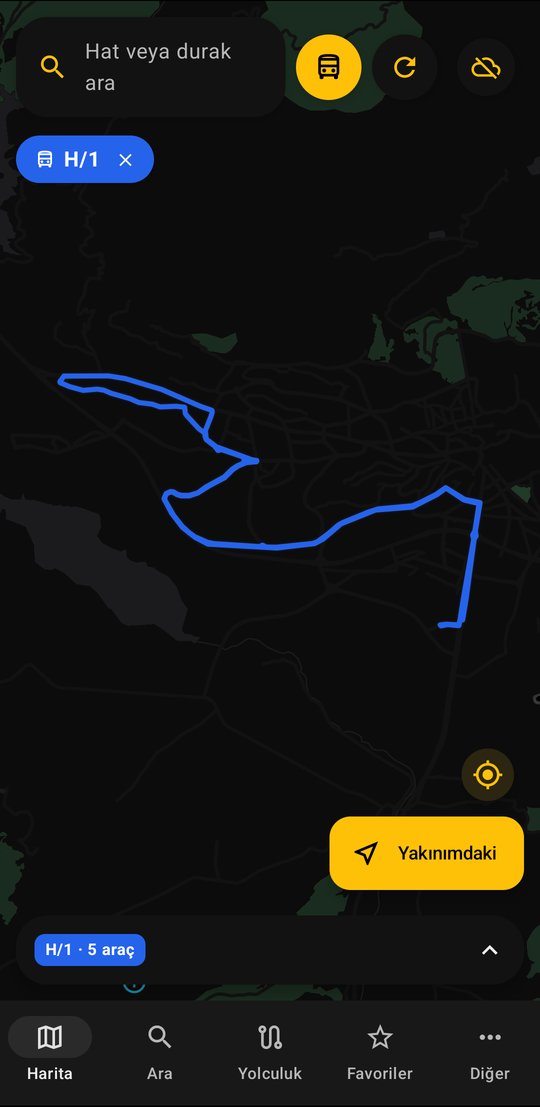
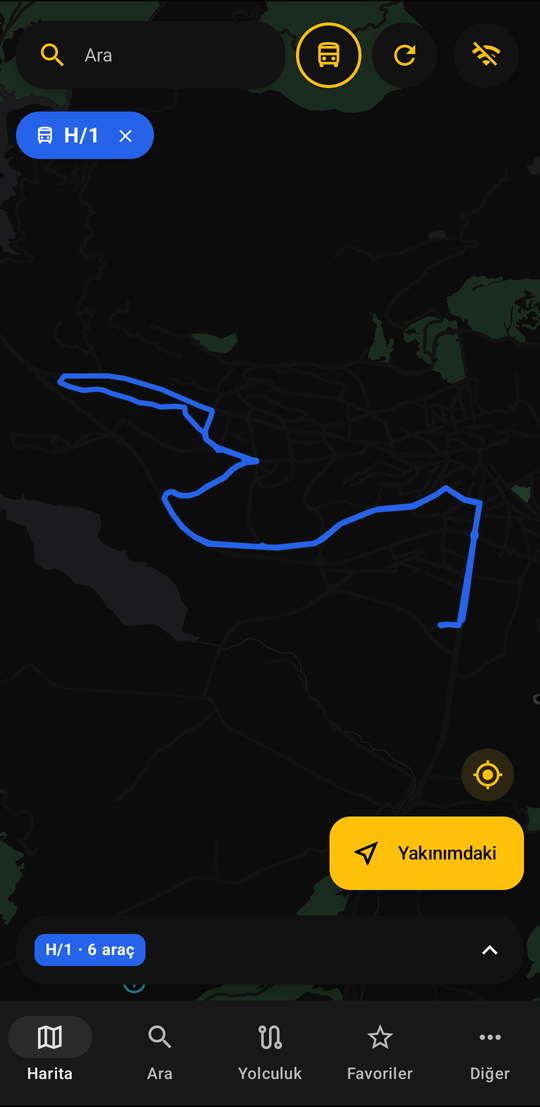
Tema düzeltmeleri: açık/koyu rolleri tamamlandı, pencere ve durum çubuğu uygulama temasını izler; çevrimdışı düğmesi diğer yuvarlak düğmelerle simetrik, Wi-Fi kapalı simgesi; yeni ekran görüntüleri

Changed region(s): [[0.0296, 0.0307, 0.4148, 0.1843], [0.5037, 0.0, 0.7704, 0.0921], [0.8593, 0.0307, 0.9185, 0.0921]]

diff --git a/app/src/main/java/com/uzaylikafasi/marasulasim/ui/TransportApp.kt b/app/src/main/java/com/uzaylikafasi/marasulasim/ui/TransportApp.kt
@@ -56,7 +56,11 @@ private val lightColors = lightColorScheme(primary = teal, onPrimary = Color.Whi
     tertiary = Color(0xFFEA580C), background = Color(0xFFF8FAFC), onBackground = Color(0xFF0F172A),
     surface = Color.White, onSurface = Color(0xFF0F172A), surfaceVariant = Color(0xFFF1F5F9), onSurfaceVariant = Color(0xFF475569),
     surfaceContainer = Color.White, surfaceContainerLow = Color(0xFFF8FAFC), surfaceContainerHigh = Color.White, surfaceContainerHighest = Color(0xFFF1F5F9),
-    outline = Color(0xFFCBD5E1), outlineVariant = Color(0xFFE2E8F0))
+    outline = Color(0xFFCBD5E1), outlineVariant = Color(0xFFE2E8F0),
+    onSecondary = Color.White, onTertiary = Color.White, tertiaryContainer = Color(0xFFFFEDD5), onTertiaryContainer = Color(0xFF7C2D12),
+    error = Color(0xFFDC2626), onError = Color.White, errorContainer = Color(0xFFFEE2E2), onErrorContainer = Color(0xFF7F1D1D),
+    inverseSurface = Color(0xFF1E293B), inverseOnSurface = Color(0xFFF1F5F9), inversePrimary = Color(0xFF93C5FD),
+    surfaceDim = Color(0xFFE2E8F0), surfaceBright = Color.White, surfaceContainerLowest = Color.White, surfaceTint = Color(0xFF2563EB))
 /** Koyu tema: siyah zemin, sarı (amber) vurgu, gri yüzeyler; metin/yüzey kontrastı en az 4,5:1. */
 private val darkColors = darkColorScheme(primary = Color(0xFFFFC107), onPrimary = Color.Black, primaryContainer = Color(0xFF3D3000), onPrimaryContainer = Color(0xFFFFE082),
     secondary = Color(0xFFB8B8B8), onSecondary = Color.Black, secondaryContainer = Color(0xFF2A2A2A), onSecondaryContainer = Color(0xFFE0E0E0),
@@ -64,7 +68,10 @@ private val darkColors = darkColorScheme(primary = Color(0xFFFFC107), onPrimary 
     background = Color.Black, onBackground = Color(0xFFEDEDED),
     surface = Color(0xFF121212), onSurface = Color(0xFFEDEDED), surfaceVariant = Color(0xFF222222), onSurfaceVariant = Color(0xFFB8B8B8),
     surfaceContainer = Color(0xFF181818), surfaceContainerLow = Color(0xFF0E0E0E), surfaceContainerHigh = Color(0xFF202020), surfaceContainerHighest = Color(0xFF2A2A2A),
-    outline = Color(0xFF6B6B6B), outlineVariant = Color(0xFF3A3A3A), error = Color(0xFFFF6B6B), onError = Color.Black)
+    outline = Color(0xFF6B6B6B), outlineVariant = Color(0xFF3A3A3A), error = Color(0xFFFF6B6B), onError = Color.Black,
+    errorContainer = Color(0xFF3A1212), onErrorContainer = Color(0xFFFFB4AB),
+    inverseSurface = Color(0xFFEDEDED), inverseOnSurface = Color(0xFF121212), inversePrimary = Color(0xFF6B5300),
+    surfaceDim = Color(0xFF0A0A0A), surfaceBright = Color(0xFF2E2E2E), surfaceContainerLowest = Color(0xFF080808), surfaceTint = Color(0xFFFFC107))
 /** Geçerli temanın koyu olup olmadığı (arka plan parlaklığından); sabit renkli birkaç öğe için. */
 private object LocalDark { val current: Boolean @Composable get() = MaterialTheme.colorScheme.background.luminance() < 0.5f }
 /** Durum çubuğu ve gezinme çubuğu simgeleri temaya göre; çubuklar saydam (kenardan kenara). */
@@ -77,6 +84,9 @@ private fun SystemBarsEffect(dark: Boolean) {
         controller.isAppearanceLightStatusBars = !dark
         controller.isAppearanceLightNavigationBars = !dark
         window.navigationBarColor = if (dark) android.graphics.Color.BLACK else android.graphics.Color.WHITE
+        window.statusBarColor = android.graphics.Color.TRANSPARENT
+        // Pencere zemini sistem temasına değil uygulama temasına uysun (telefon koyu, uygulama açıkken siyah şerit kalmasın ve tersi)
+        window.setBackgroundDrawable(android.graphics.drawable.ColorDrawable(if (dark) android.graphics.Color.BLACK else android.graphics.Color.parseColor("#F8FAFC")))
     }
 }
 private fun hex(value: String) = Color(android.graphics.Color.parseColor(value))
@@ -139,7 +149,8 @@ fun TransportApp(vm: TransportViewModel, onNearby: () -> Unit, onLocate: ((Doubl
         LaunchedEffect(openedLine) { openedLine?.let { if (snapshots[it.key]?.stops == null) vm.lineStops(it) } }
         val names = listOf("Harita", "Ara", "Yolculuk", "Favoriler", "Diğer")
         val icons = listOf(Icons.Outlined.Map, Icons.Outlined.Search, Icons.Outlined.Route, Icons.Outlined.StarOutline, Icons.Outlined.MoreHoriz)
-        Scaffold(snackbarHost = { SnackbarHost(snackbar) }, topBar = {
+        Scaffold(snackbarHost = { SnackbarHost(snackbar) { data -> Snackbar(data, containerColor = MaterialTheme.colorScheme.surfaceContainerHighest,
+            contentColor = MaterialTheme.colorScheme.onSurface, actionColor = MaterialTheme.colorScheme.primary) } }, topBar = {
             if (tab != 0) TopAppBar(title = { Column {
                 Text(if (tab == 0) "Maraş Ulaşım" else names[tab], fontWeight = FontWeight.SemiBold)
                 if (tab == 0) Text("Hatların, tek haritada", style = MaterialTheme.typography.labelMedium, color = MaterialTheme.colorScheme.secondary)
@@ -403,7 +414,8 @@ private fun MapScreen(settings: Settings, allSnapshots: List<LineSnapshot>, focu
                 Surface(onClick = onSearch, modifier = Modifier.weight(1f), shape = mapCardShape, color = MaterialTheme.colorScheme.surface, shadowElevation = 6.dp) {
                     Row(Modifier.padding(horizontal = 16.dp, vertical = 14.dp), verticalAlignment = Alignment.CenterVertically) {
                         Icon(Icons.Outlined.Search, null, tint = MaterialTheme.colorScheme.primary)
-                        Text("Hat veya durak ara", Modifier.padding(start = 12.dp), color = MaterialTheme.colorScheme.onSurfaceVariant)
+                        Text("Ara", Modifier.padding(start = 12.dp), color = MaterialTheme.colorScheme.onSurfaceVariant, style = MaterialTheme.typography.bodyMedium, maxLines = 1,
+                            overflow = androidx.compose.ui.text.style.TextOverflow.Ellipsis)
                     }
                 }
                 if(tracked==null) MapRoundButton(if (settings.showVehicles) Icons.Outlined.DirectionsBus else Icons.Outlined.BusAlert,
@@ -534,8 +546,9 @@ private fun stopLineCodes(context: android.content.Context): Map<Long, List<Stri
 
 @Composable
 private fun MapRoundButton(icon: ImageVector, label: String, active: Boolean = false, onClick: () -> Unit) {
-    Surface(onClick = onClick, shape = CircleShape, color = if (active) MaterialTheme.colorScheme.primary else MaterialTheme.colorScheme.surface, shadowElevation = 6.dp,
-        contentColor = if (active) MaterialTheme.colorScheme.onPrimary else MaterialTheme.colorScheme.primary) {
+    Surface(onClick = onClick, shape = CircleShape, color = MaterialTheme.colorScheme.surface, shadowElevation = 6.dp,
+        border = if (active) androidx.compose.foundation.BorderStroke(2.dp, MaterialTheme.colorScheme.primary) else null,
+        contentColor = MaterialTheme.colorScheme.primary) {
         Icon(icon, label, Modifier.padding(13.dp).size(24.dp))
     }
 }
@@ -798,8 +811,10 @@ private fun StopRow(stop: Stop, favorite: Boolean, onClick: () -> Unit, onFavori
     }
 }
 @Composable
-private fun CodeBadge(code: String, color: Color = teal) {
-    Surface(color = color, contentColor = Color.White, shape = RoundedCornerShape(10.dp)) {
+private fun CodeBadge(code: String, color: Color = Color.Unspecified) {
+    val themed = color == Color.Unspecified
+    Surface(color = if (themed) MaterialTheme.colorScheme.primary else color,
+        contentColor = if (themed) MaterialTheme.colorScheme.onPrimary else Color.White, shape = RoundedCornerShape(10.dp)) {
         Text(code, Modifier.padding(horizontal = 10.dp, vertical = 10.dp), fontWeight = FontWeight.Bold)
     }
 }
@@ -820,7 +835,7 @@ private fun OfflineNotice(result: ApiResult) {
     val built = result.fetchedAt?.let { runCatching { fetchedInstant(it).atZone(ZoneId.of("Europe/Istanbul")).format(DateTimeFormatter.ofPattern("HH:mm")) }.getOrNull() }
     Surface(color = MaterialTheme.colorScheme.tertiaryContainer, contentColor = MaterialTheme.colorScheme.onTertiaryContainer, shape = RoundedCornerShape(10.dp)) {
         Row(Modifier.padding(12.dp), verticalAlignment = Alignment.CenterVertically) {
-            Icon(Icons.Outlined.CloudOff, null, Modifier.size(20.dp))
+            Icon(Icons.Outlined.WifiOff, null, Modifier.size(20.dp))
             Column(Modifier.padding(start = 10.dp)) {
                 Text("Çevrimdışı tahmin", fontWeight = FontWeight.SemiBold, style = MaterialTheme.typography.bodyMedium)
                 Text("Canlı veri yok${built?.let { " · $it" }.orEmpty()}. Süreler tarife ve geçmiş ölçümlere dayanır; otobüsün gerçek konumu değildir.",
@@ -837,7 +852,7 @@ private fun OfflineNotice(result: ApiResult) {
 @Composable
 fun OfflineModeButton(state: OfflineButtonState, onClick: () -> Unit, modifier: Modifier = Modifier) {
     if (!state.visible) return
-    val size by androidx.compose.animation.core.animateDpAsState(if (state.enlarged) 58.dp else 44.dp, androidx.compose.animation.core.tween(350), label = "offline-size")
+    val size by androidx.compose.animation.core.animateDpAsState(if (state.enlarged) 58.dp else 50.dp, androidx.compose.animation.core.tween(350), label = "offline-size")
     val scheme = MaterialTheme.colorScheme
     val container = when { state.on -> scheme.tertiary; state.enlarged -> scheme.tertiaryContainer; else -> scheme.surface }
     val content = when { state.on -> scheme.onTertiary; state.enlarged -> scheme.onTertiaryContainer; else -> scheme.primary }
@@ -849,7 +864,7 @@ fun OfflineModeButton(state: OfflineButtonState, onClick: () -> Unit, modifier: 
     Box(modifier.size(58.dp), contentAlignment = Alignment.Center) {
         Surface(onClick = onClick, enabled = state.clickable, shape = CircleShape, color = container, contentColor = content, shadowElevation = 6.dp,
             modifier = Modifier.size(size).semantics { stateDescription = if (state.on) "Açık" else "Kapalı"; role = androidx.compose.ui.semantics.Role.Switch }) {
-            Box(contentAlignment = Alignment.Center) { Icon(Icons.Outlined.CloudOff, description, Modifier.size(if (state.enlarged) 28.dp else 22.dp)) }
+            Box(contentAlignment = Alignment.Center) { Icon(Icons.Outlined.WifiOff, description, Modifier.size(if (state.enlarged) 28.dp else 24.dp)) }
         }
     }
 }
